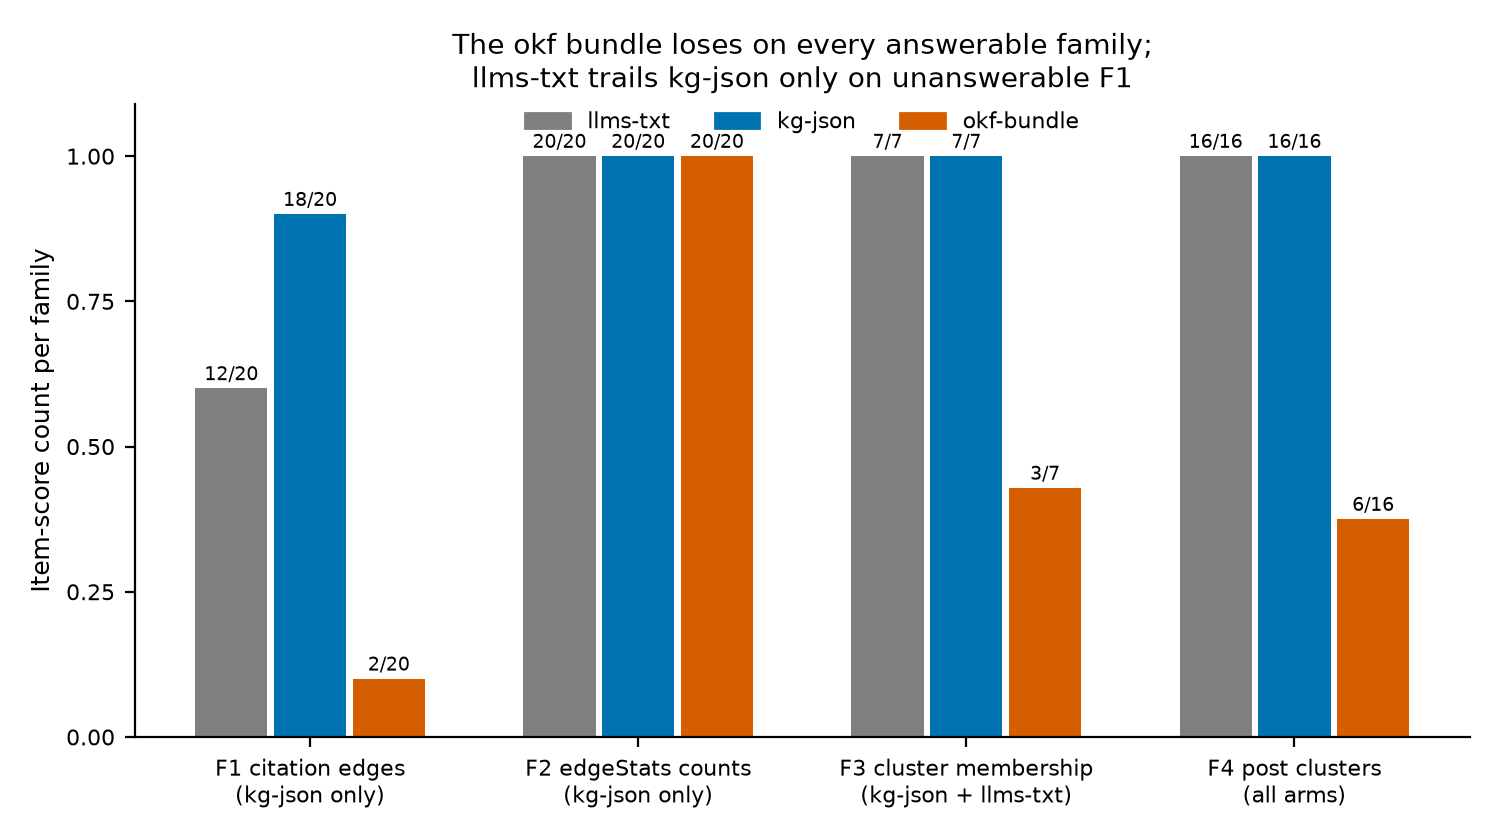
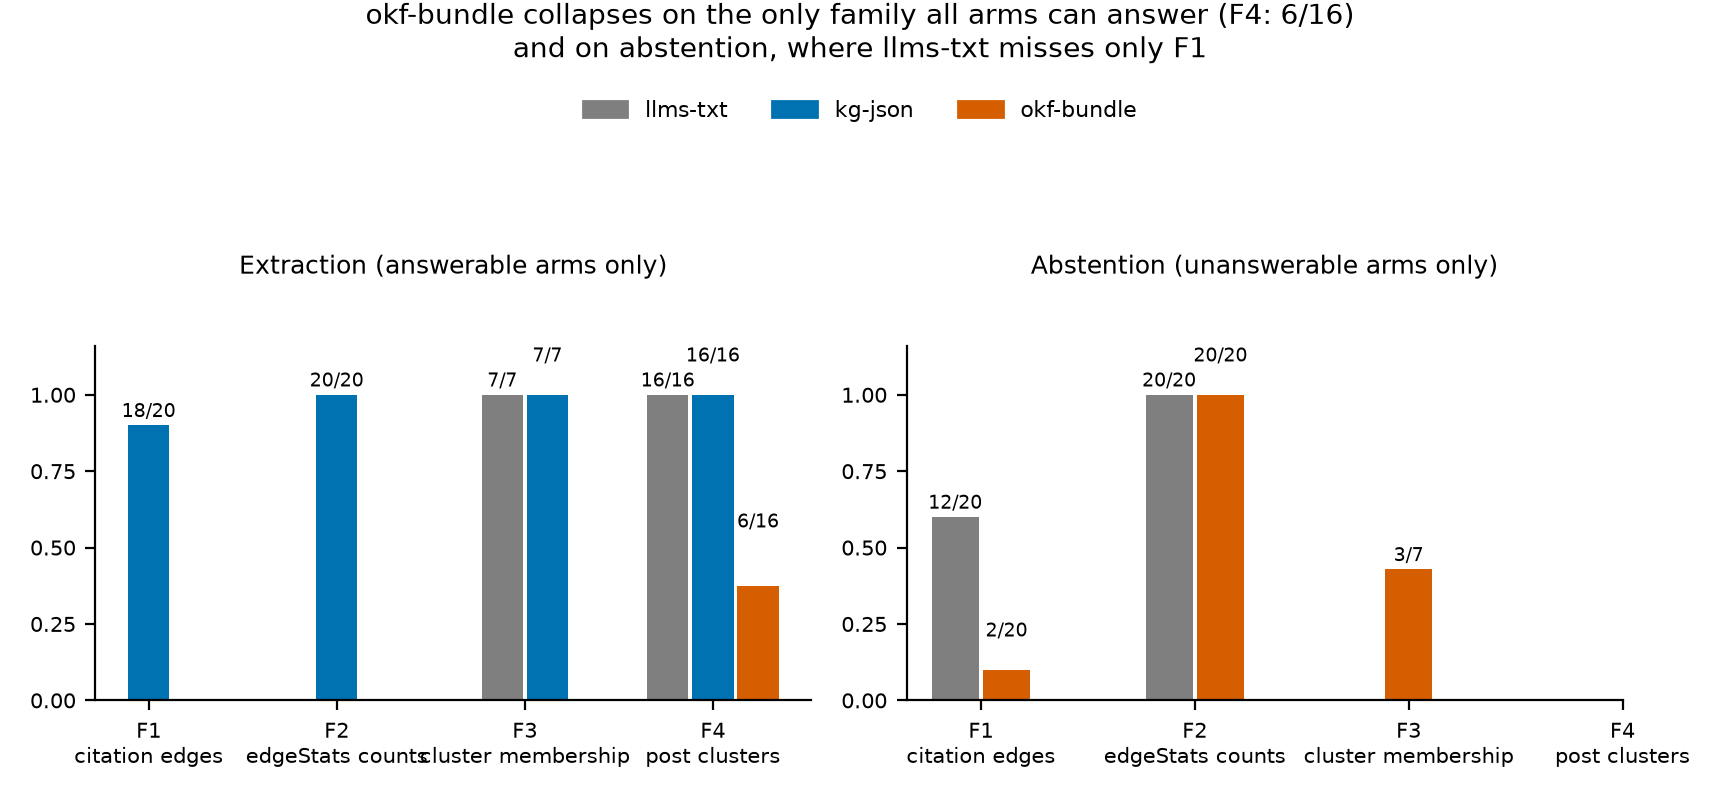
fix(figures): redesign fig3 as conditional accuracies, split fig4 grading panels, declutter fig2

diff --git a/figures/fig4-family-breakdown.py b/figures/fig4-family-breakdown.py
@@ -1,11 +1,12 @@
-"""Figure 4: exploratory per-family item-score counts per arm.
+"""Figure 4: per-family breakdown, extraction and abstention kept separate.
 
 Regenerate: uv run --with matplotlib python figures/fig4-family-breakdown.py
 Reads only committed results/raw-v2/<arm>/run-*.json records grouped by the
 family field. Per-family breakdowns are labeled exploratory in
-seal-v2.json. For llms-txt and okf-bundle, F1/F2 (and F3 for okf-bundle)
-items are unanswerable, so a count there reflects a correct abstention,
-not an extraction; kg-json is answerable on every family.
+seal-v2.json. Answerable arms appear only in the extraction panel; on
+unanswerable families an item scores 1 only for a correct abstention, so
+those arms appear only in the abstention panel. A bar therefore always
+means exactly one thing.
 """
 
 import json
@@ -19,59 +20,80 @@ import matplotlib.pyplot as plt
 
 RAW = pathlib.Path(__file__).resolve().parents[1] / "results" / "raw-v2"
 ARMS = ["llms-txt", "kg-json", "okf-bundle"]
-FAMILIES = ["F1", "F2", "F3", "F4"]
 COLORS = {"llms-txt": "#7f7f7f", "kg-json": "#0072B2", "okf-bundle": "#D55E00"}
+# Families each arm can answer (seal-v2.json answerability map).
+ANSWERABLE = {
+    "llms-txt": {"F3", "F4"},
+    "kg-json": {"F1", "F2", "F3", "F4"},
+    "okf-bundle": {"F4"},
+}
 FAMILY_LABELS = {
-    "F1": "F1 citation edges\n(kg-json only)",
-    "F2": "F2 edgeStats counts\n(kg-json only)",
-    "F3": "F3 cluster membership\n(kg-json + llms-txt)",
-    "F4": "F4 post clusters\n(all arms)",
+    "F1": "F1\ncitation edges",
+    "F2": "F2\nedgeStats counts",
+    "F3": "F3\ncluster membership",
+    "F4": "F4\npost clusters",
 }
 
 
-def load_counts():
-    counts = {}
+def load_tally():
+    tally = defaultdict(lambda: defaultdict(lambda: [0, 0]))
     for arm in ARMS:
-        tally = defaultdict(lambda: [0, 0])
         for path in sorted((RAW / arm).glob("run-*.json")):
             rec = json.loads(path.read_text())
-            tally[rec["family"]][0] += 1 if rec["item_score"] else 0
-            tally[rec["family"]][1] += 1
-        counts[arm] = tally
-    return counts
+            cell = tally[arm][rec["family"]]
+            cell[0] += 1 if rec["item_score"] else 0
+            cell[1] += 1
+    return tally
+
+
+def draw_panel(ax, title, groups, width=0.24):
+    for spine in ("top", "right"):
+        ax.spines[spine].set_visible(False)
+    labels = list(groups)
+    all_arms = sorted({arm for arms in groups.values() for arm in arms},
+                      key=ARMS.index)
+    for gi, family in enumerate(labels):
+        arms = groups[family]
+        offsets = {arm: (j - (len(arms) - 1) / 2) * width
+                   for j, arm in enumerate(arms)}
+        for j, arm in enumerate(arms):
+            k, n = groups[family][arm]
+            ax.bar(gi + offsets[arm], k / n, width=width - 0.02,
+                   color=COLORS[arm], zorder=2)
+            ax.annotate(f"{k}/{n}", (gi + offsets[arm], k / n),
+                        textcoords="offset points",
+                        xytext=(0, 3 + 9 * j), ha="center", fontsize=7)
+    ax.set_xticks(range(len(labels)))
+    ax.set_xticklabels([FAMILY_LABELS[f] for f in labels], fontsize=7.5)
+    ax.set_ylim(0, 1.16)
+    ax.set_yticks([0, 0.25, 0.5, 0.75, 1.0])
+    ax.tick_params(axis="y", labelsize=7.5)
+    ax.set_title(title, fontsize=9, pad=26)
 
 
 def main():
-    counts = load_counts()
-    if not counts:
+    tally = load_tally()
+    if not tally:
         print("no records under results/raw-v2/ yet; run the bench first "
               "(recipe/run-bench.sh)")
         return
 
-    fig, ax = plt.subplots(figsize=(7.5, 4.2), dpi=200)
-    for spine in ("top", "right"):
-        ax.spines[spine].set_visible(False)
-    width = 0.24
-    for i, family in enumerate(FAMILIES):
-        for j, arm in enumerate(ARMS):
-            k, n = counts[arm][family]
-            x = i + (j - 1) * width
-            ax.bar(x, k / n, width=width - 0.02, color=COLORS[arm], zorder=2)
-            ax.annotate(f"{k}/{n}", (x, k / n), textcoords="offset points",
-                        xytext=(0, 3), ha="center", fontsize=7)
-    ax.set_xticks(range(len(FAMILIES)))
-    ax.set_xticklabels([FAMILY_LABELS[f] for f in FAMILIES], fontsize=8)
-    ax.set_ylabel("Item-score count per family", fontsize=9)
-    ax.tick_params(axis="y", labelsize=8)
-    ax.set_ylim(0, 1.09)
-    ax.set_yticks([0, 0.25, 0.5, 0.75, 1.0])
-    ax.set_title("The okf bundle loses on every answerable family;\n"
-                 "llms-txt trails kg-json only on unanswerable F1",
-                 fontsize=10)
-    ax.legend([plt.Rectangle((0, 0), 1, 1, color=COLORS[a]) for a in ARMS],
-              ARMS, fontsize=8, loc="upper center", ncol=3, frameon=False,
-              bbox_to_anchor=(0.5, 1.02))
-    fig.tight_layout()
+    families = ["F1", "F2", "F3", "F4"]
+    extraction = {f: {arm: tally[arm][f] for arm in ARMS
+                      if f in ANSWERABLE[arm]} for f in families}
+    abstention = {f: {arm: tally[arm][f] for arm in ARMS
+                      if f not in ANSWERABLE[arm]} for f in families}
+
+    fig, axes = plt.subplots(1, 2, figsize=(8.6, 4.0), dpi=200)
+    draw_panel(axes[0], "Extraction (answerable arms only)", extraction)
+    draw_panel(axes[1], "Abstention (unanswerable arms only)", abstention)
+    handles = [plt.Rectangle((0, 0), 1, 1, color=COLORS[a]) for a in ARMS]
+    fig.legend(handles, ARMS, fontsize=8, loc="upper center", ncol=3,
+               frameon=False, bbox_to_anchor=(0.5, 0.9))
+    fig.suptitle("okf-bundle collapses on the only family all arms can "
+                 "answer (F4: 6/16)\nand on abstention, where llms-txt "
+                 "misses only F1", fontsize=10, y=1.0)
+    fig.tight_layout(rect=(0, 0, 1, 0.84))
     out = pathlib.Path(__file__).resolve().parent / "fig4-family-breakdown.png"
     fig.savefig(out)
     print(f"wrote {out}")

diff --git a/figures/fig3-conditional-accuracy.py b/figures/fig3-conditional-accuracy.py
@@ -1,0 +1,91 @@
+"""Figure 3: conditional extraction and abstention accuracy per arm.
+
+Regenerate: uv run --with matplotlib python figures/fig3-conditional-accuracy.py
+Reads only committed results/raw-v2/<arm>/run-*.json records. The composite
+item score mixes extraction (answerable items) and abstention credit
+(correct abstention on unanswerable items scores 1), so the conditional
+accuracies are what explain where each arm's composite lands. Accuracies
+re-derive the numbers in results/analysis-v2.json.
+"""
+
+import json
+import pathlib
+from collections import defaultdict
+
+import matplotlib
+
+matplotlib.use("Agg")
+import matplotlib.pyplot as plt
+
+RAW = pathlib.Path(__file__).resolve().parents[1] / "results" / "raw-v2"
+ARMS = ["llms-txt", "kg-json", "okf-bundle"]
+COLORS = {"llms-txt": "#7f7f7f", "kg-json": "#0072B2", "okf-bundle": "#D55E00"}
+ANSWERABLE = {
+    "llms-txt": {"F3", "F4"},
+    "kg-json": {"F1", "F2", "F3", "F4"},
+    "okf-bundle": {"F4"},
+}
+
+
+def load_tally():
+    tally = defaultdict(lambda: defaultdict(lambda: [0, 0]))
+    for arm in ARMS:
+        for path in sorted((RAW / arm).glob("run-*.json")):
+            rec = json.loads(path.read_text())
+            cell = tally[arm][rec["family"]]
+            cell[0] += 1 if rec["item_score"] else 0
+            cell[1] += 1
+    return tally
+
+
+def main():
+    tally = load_tally()
+    if not tally:
+        print("no records under results/raw-v2/ yet; run the bench first "
+              "(recipe/run-bench.sh)")
+        return
+
+    extraction = {}
+    abstention = {}
+    for arm in ARMS:
+        ex_k = sum(tally[arm][f][0] for f in ANSWERABLE[arm])
+        ex_n = sum(tally[arm][f][1] for f in ANSWERABLE[arm])
+        extraction[arm] = (ex_k, ex_n)
+        ab_k = sum(tally[arm][f][0] for f in tally[arm] if f not in ANSWERABLE[arm])
+        ab_n = sum(tally[arm][f][1] for f in tally[arm] if f not in ANSWERABLE[arm])
+        if ab_n:
+            abstention[arm] = (ab_k, ab_n)
+
+    panels = [
+        ("Extraction accuracy (answerable items)", extraction),
+        ("Abstention accuracy (unanswerable items)", abstention),
+    ]
+    fig, axes = plt.subplots(1, 2, figsize=(7.5, 3.6), dpi=200, sharey=True)
+    for ax, (title, data) in zip(axes, panels):
+        for spine in ("top", "right"):
+            ax.spines[spine].set_visible(False)
+        arms = [a for a in ARMS if a in data]
+        for i, arm in enumerate(arms):
+            k, n = data[arm]
+            ax.bar(i, k / n, width=0.5, color=COLORS[arm], zorder=2)
+            ax.annotate(f"{k}/{n}", (i, k / n), textcoords="offset points",
+                        xytext=(0, 3), ha="center", fontsize=8)
+        ax.set_xticks(range(len(arms)))
+        ax.set_xticklabels([a for a in arms], fontsize=8, rotation=12)
+        ax.set_title(title, fontsize=9)
+        ax.set_ylim(0, 1.09)
+        ax.set_yticks([0, 0.25, 0.5, 0.75, 1.0])
+        ax.tick_params(axis="y", labelsize=8)
+    axes[0].set_ylabel("Accuracy", fontsize=9)
+
+    fig.suptitle("The okf bundle fails at both extracting and abstaining;\n"
+                 "llms.txt extracts perfectly but mis-abstains on F1",
+                 fontsize=10)
+    fig.tight_layout(rect=(0, 0, 1, 0.9))
+    out = pathlib.Path(__file__).resolve().parent / "fig3-conditional-accuracy.png"
+    fig.savefig(out)
+    print(f"wrote {out}")
+
+
+if __name__ == "__main__":
+    main()

diff --git a/figures/fig2-partial-credit.py b/figures/fig2-partial-credit.py
@@ -59,13 +59,11 @@ def main():
                   for j in range(len(vals))]
         ax.scatter([i + dj for dj in jitter], vals, s=6, alpha=0.5,
                    color=COLORS[arm], edgecolors="none", zorder=3)
-        mean = sum(vals) / len(vals)
-        ax.scatter([i], [mean], marker="D", s=22, color="#000000", zorder=4)
-        ax.annotate(f"mean {mean:.2f}", (i, mean), textcoords="offset points",
-                    xytext=(12, 4), fontsize=8)
 
+    means = {arm: sum(v) / len(v) for arm, v in scores.items()}
     ax.set_xticks(range(len(arms)))
-    ax.set_xticklabels(arms, fontsize=9)
+    ax.set_xticklabels([f"{a}\nmean {means[a]:.2f}" for a in arms],
+                       fontsize=9)
     ax.set_ylabel("Partial credit\n(dice overlap / integer fraction)",
                   fontsize=9)
     ax.tick_params(axis="y", labelsize=8)

diff --git a/README.md b/README.md
@@ -86,7 +86,7 @@ graph TD
    ```bash
    uv run --with matplotlib python figures/fig1-arm-comparison.py
    uv run --with matplotlib python figures/fig2-partial-credit.py
-   uv run --with matplotlib python figures/fig3-per-question-deltas.py
+   uv run --with matplotlib python figures/fig3-conditional-accuracy.py
    uv run --with matplotlib python figures/fig4-family-breakdown.py
    ```
 
@@ -104,13 +104,13 @@ Figure scripts live in `figures/` and render from committed `results/raw-v2/` re
 
 *Figure 3: Secondary endpoint. Per-arm partial-credit distributions (jittered strip over box plot; dice overlap on set-valued families, integer fraction on F2) with the sealed paired permutation results. kg-json separates from both arms on partial credit; llms.txt and okf-bundle do not separate (p = 0.44) despite a 38-point item-score gap.*
 
-![Paired per-item item-score deltas](figures/fig3-per-question-deltas.png)
+![Conditional extraction and abstention accuracy per arm](figures/fig3-conditional-accuracy.png)
 
-*Figure 4: Paired per-item item-score deltas against llms-txt. kg-json gains 7 items and drops 1; okf-bundle drops 25 items llms-txt answers and gains 1.*
+*Figure 4: Conditional accuracies, the two components of the composite item score. Extraction: llms.txt is perfect on its 23 answerable items, kg-json 61/63 overall, okf-bundle 6/16. Abstention: llms.txt 32/40, okf-bundle 25/47; the okf bundle fails at both components, llms.txt only mis-abstains on unanswerable F1.*
 
-![Per-family item-score counts per arm](figures/fig4-family-breakdown.png)
+![Per-family breakdown with extraction and abstention in separate panels](figures/fig4-family-breakdown.png)
 
-*Figure 5: Exploratory per-family breakdown (labeled exploratory in seal-v2.json). The okf bundle loses on every answerable family; llms-txt trails kg-json only on unanswerable F1, where correct abstention is scored. For llms-txt and okf-bundle, counts on unanswerable families reflect correct abstentions, not extractions.*
+*Figure 5: Exploratory per-family breakdown (labeled exploratory in seal-v2.json), split so each bar means exactly one thing: the extraction panel shows only arms for which the family is answerable, the abstention panel only unanswerable ones. okf-bundle collapses on F4, the only family all arms can answer (6/16), and on abstention; llms-txt trails kg-json only on unanswerable F1.*
 
 ## Pre-Registration
 
